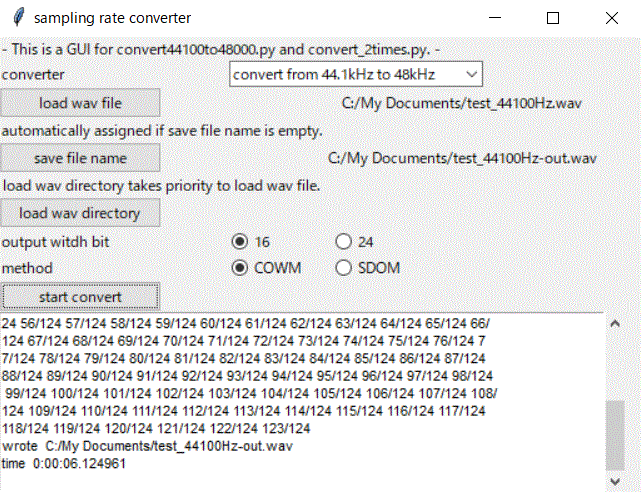
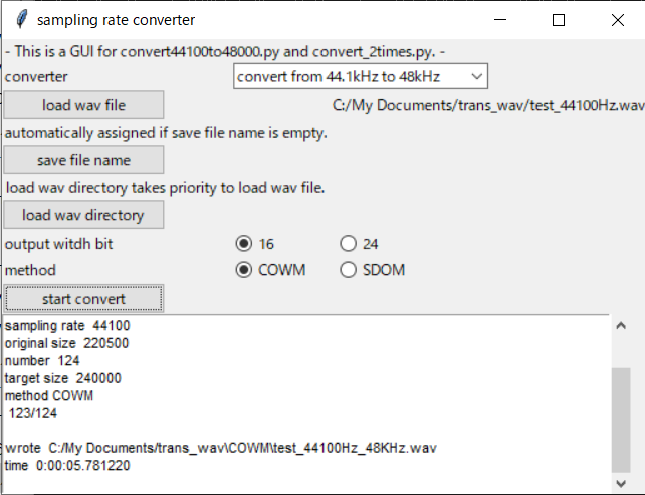
tkINTER ESC-R

diff --git a/gui_sampling_rate_converter.py b/gui_sampling_rate_converter.py
@@ -15,6 +15,7 @@
 import os
 import sys
 import glob
+import re
 import datetime
 import argparse
 import threading
@@ -261,11 +262,34 @@ class GUI_App(ttk.Frame):
     class IORedirector(object):
         def __init__(self, text_area):
             self.text_area = text_area
+            self.line_flag = False
             
     class StdoutRedirector(IORedirector):
         def write(self,st):
-            self.text_area.insert('end', st)
+            if 1: # esc-r
+                # check if there is num/num in st
+                if re.search(r' \d+/\d+',st) is not None:
+                    #
+                    if not self.line_flag:  # start...
+                        self.text_area.insert('end',  st)
+                        self.text_area.insert('end', "\n") # make index up
+                        self.line_flag=True
+                    else:
+                        # delete last 1 line 
+                        self.text_area.delete("end-2l", "end-1l")
+                        #
+                        self.text_area.insert('end', st)
+                        self.text_area.insert('end', "\n") # make index up
+                else:
+                    #self.text_area.insert('end', pos +'>' + st)
+                    self.text_area.insert('end',  st )
+                    if st != "":
+                        self.line_flag = False  # reset line_flag
+            else:
+                self.text_area.insert('end',  st)
+            
             self.text_area.see("end")
+        
         
         def flush(self):
             pass
